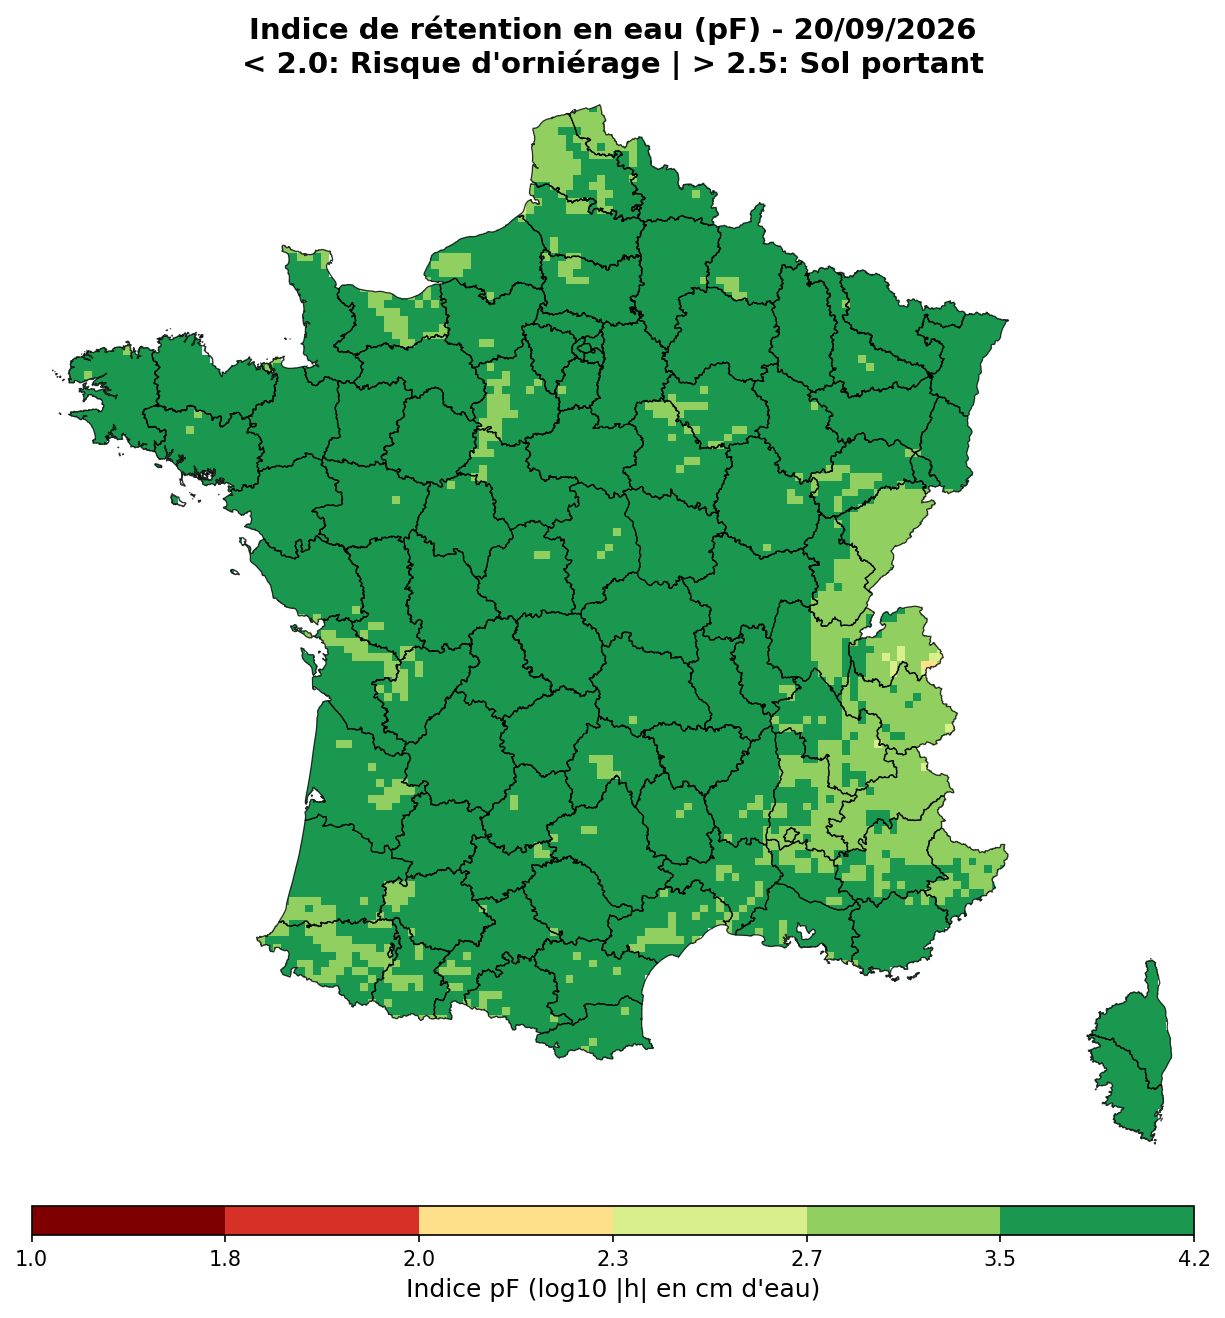
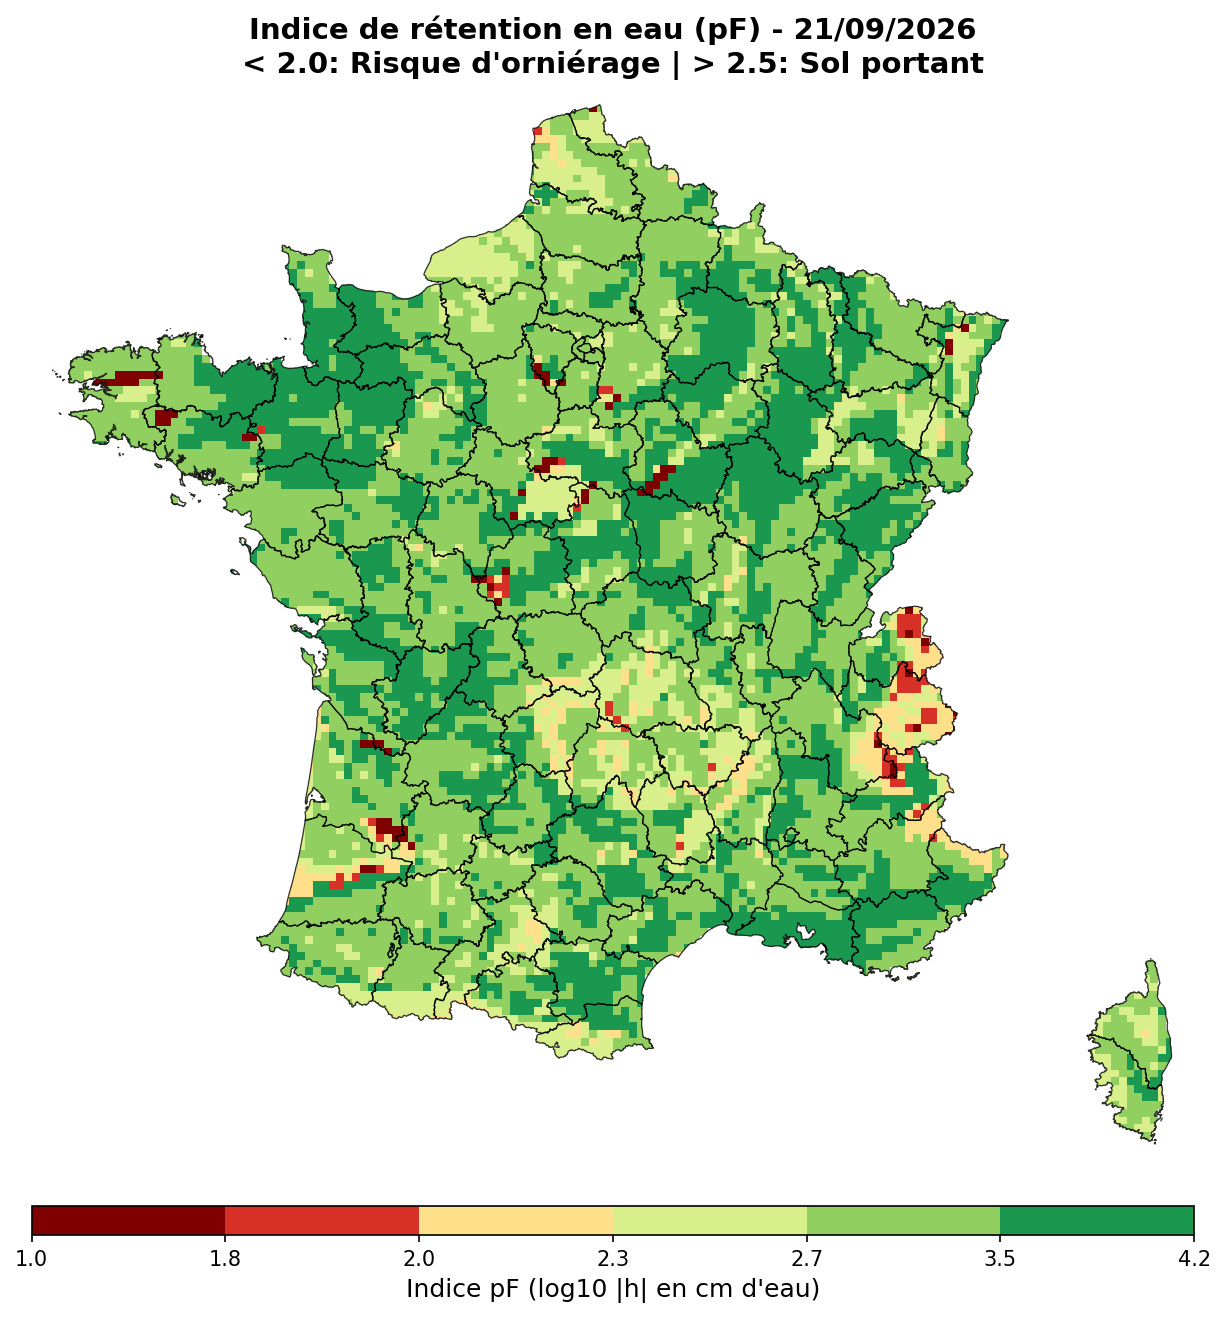
deploy: 385b1461883169fe7e7d38b08bcc851e742c2fdb

Changed region(s): [[0.062, 0.0622, 0.8065, 0.8088], [0.8686, 0.7155, 0.9616, 0.871], [0.6514, 0.0, 0.6824, 0.0311]]

diff --git a/main.py b/main.py
@@ -133,23 +133,40 @@ if df_jour.empty:
     raise ValueError("Erreur : La fusion des données a généré un tableau vide. Vérifiez l'échelle des coordonnées (LAMBX/LAMBY).")
 
 # ==========================================
-# 4. CALCULS AGRONOMIQUES ET TERRANIMO
+# 4. CALCULS AGRONOMIQUES ET TERRANIMO ACTUALISÉS
 # ==========================================
-# 1. Teneur en argile (%)
+# 1. Teneur massique en argile (%) inversée depuis b
 df_jour["CLAY_PCT"] = np.clip((df_jour["B"] - 3.5) / 0.137, 0.0, 100.0)
 
-# 2. Indice de succion (pF)
-swi_safe = np.clip(df_jour["SWI"].values, 0.0, 1.2)
-b_norm = df_jour["B"].values / 5.0
-pf = np.where(swi_safe <= 1.0, 4.2 - 2.2 * (swi_safe ** (1.0 / b_norm)), 2.0 - 1.0 * (swi_safe - 1.0))
-df_jour["PF"] = np.clip(pf, 0.8, 4.5)
+# 2. Calcul analytique ou semi-analytique de la succion (Clapp & Hornberger 1978)
+col_wg_val = next((c for c in df_jour.columns if c.upper() in ["WG_RACINE_Q", "WG_RACINE"]), None)
 
-# 3. Succion matricielle en kPa
-df_jour["SUCCION_KPA"] = (10.0 ** df_jour["PF"]) / 10.0
+if col_wg_val and df_jour[col_wg_val].notna().all() and "W_SAT" in df_jour.columns and "PSI_SAT_KPA" in df_jour.columns:
+    # Voie analytique directe (si teneur volumique dispo)
+    se = np.clip(df_jour[col_wg_val].astype(float).values / df_jour["W_SAT"].values, 0.05, 1.0)
+    succion_kpa = df_jour["PSI_SAT_KPA"].values * (se ** (-df_jour["B"].values))
+    succion_kpa = np.clip(succion_kpa, 0.0, 1500.0)
+    pf = np.log10(np.maximum(succion_kpa * 10.197, 1.0))
+else:
+    # Voie par repli via le SWI
+    swi_safe = np.clip(df_jour["SWI"].values, 0.0, 1.2)
+    b_norm = df_jour["B"].values / 5.0
+    pf = np.where(
+        swi_safe <= 1.0,
+        4.2 - 2.2 * (swi_safe ** (1.0 / b_norm)),
+        2.0 - 1.0 * (swi_safe - 1.0)
+    )
+    pf = np.clip(pf, 0.8, 4.2)
+    succion_kpa = (10.0 ** pf) / 10.197
 
-# 4. Résistance du sol et catégorisation Praticabilité Terranimo
-df_jour["RESISTANCE_BAR"] = 0.55 + 0.02 * df_jour["CLAY_PCT"] + 0.023 * df_jour["SUCCION_KPA"]
+df_jour["PF"] = pf
+df_jour["SUCCION_KPA"] = succion_kpa
 
+# 3. Résistance du sol Terranimo avec seuil de validité à 50 cbar (1 kPa = 1 cbar)
+succion_cbar_terranimo = np.clip(df_jour["SUCCION_KPA"].values, 0.0, 50.0)
+df_jour["RESISTANCE_BAR"] = 0.55 + 0.02 * df_jour["CLAY_PCT"] + 0.023 * succion_cbar_terranimo
+
+# 4. Décision Terranimo (Nomogramme 35 cm)
 conditions_prat = [
     df_jour["RESISTANCE_BAR"] >= 2.0 * CONTRAINTE_BAR,
     df_jour["RESISTANCE_BAR"] >= 0.92 * CONTRAINTE_BAR
